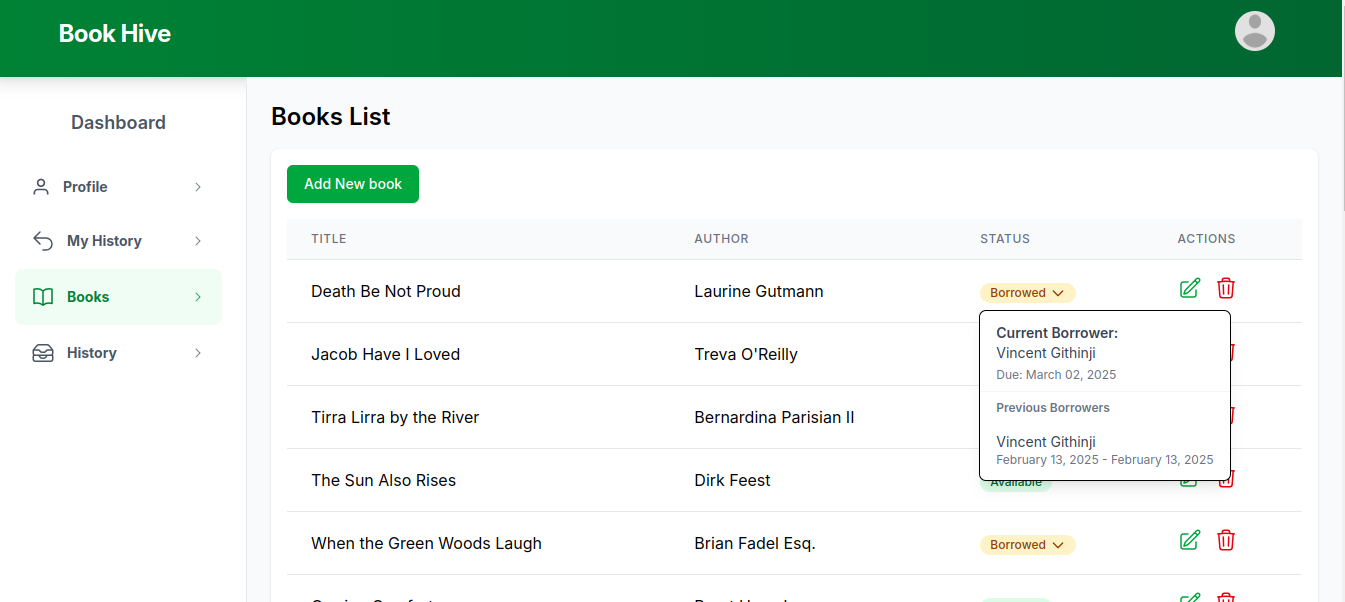
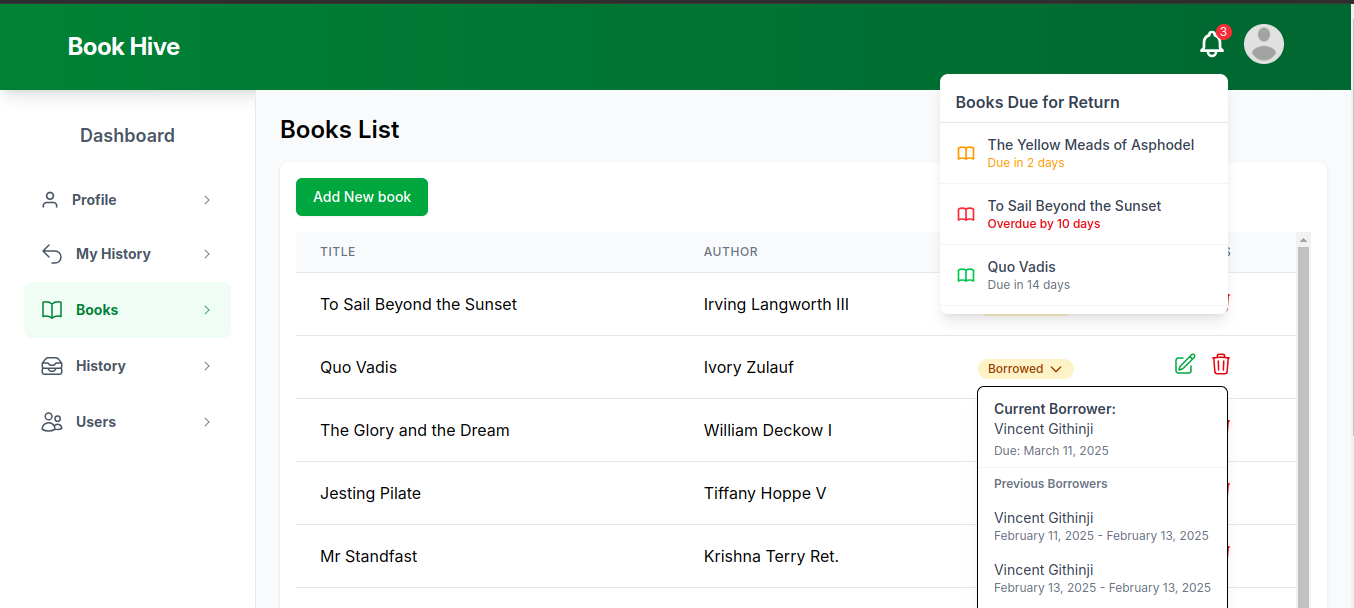
Include user features and admin features and update admin dashboard image

diff --git a/README.md b/README.md
@@ -6,20 +6,29 @@ A book lending library application built with Ruby on Rails 8, MySQL database an
 - Rails (version 8.0.1 or newer)
 - MySQL (version 8.4 or newer)
 
-
-## Features
-- User registration and login
-- Browse available books
-- Borrow and return books
-- View currently borrowed books
-
 ## Setup
 1. Clone the repository
 2. Install dependencies by running ```bundle install``` and ```yarn install```
 3. Setup the database by running ```./bin/rails db:setup```
 4. Run ```./bin/rails db:seed``` to generate some books data
 5. Start the server by running ```./bin/dev``` and visit [http://localhost:3000](http://localhost:3000)
-6. You will be redirected to the sign in page. Click the sign up button and fill in tour details then submit.
+6. You will be redirected to the sign in page. Click the sign up button and fill in your details then submit.
+
+## Features
+- User registration and login using rails 8 authentication
+- Browse available books
+- Borrow and return books
+- View currently borrowed books
+
+## Librarian (Admin) Features
+- View all users
+- View borrowed books
+- View currently borrowed books
+- View borrowing history
+
+## Librarian (Admin) Dashboard
+![Admin Dashboard](image.png)
+
 
 ## Tests
 - Run ```bin/rails db:test:prepare test test:system``` to test the app.
@@ -27,6 +36,3 @@ A book lending library application built with Ruby on Rails 8, MySQL database an
 ## Demo
 - Check out the demo deployed using Kamal [here](https://bookhive.kachistore.online)
 
-## Librarian (Admin) Dashboard
-
-![Admin Dashboard](image.png)
